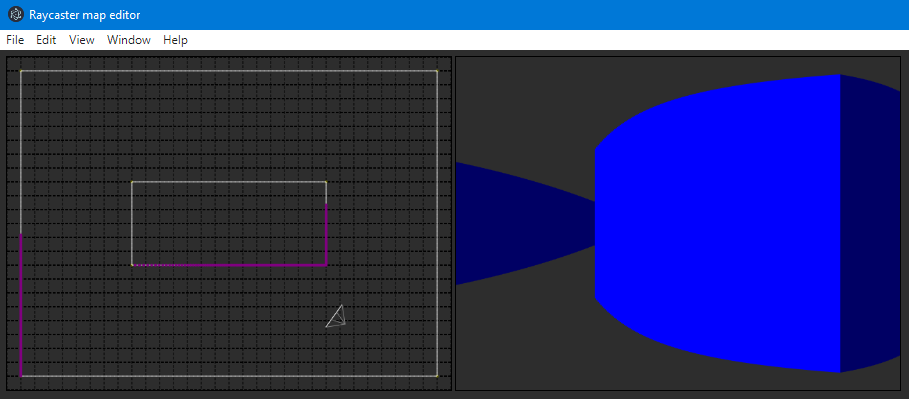
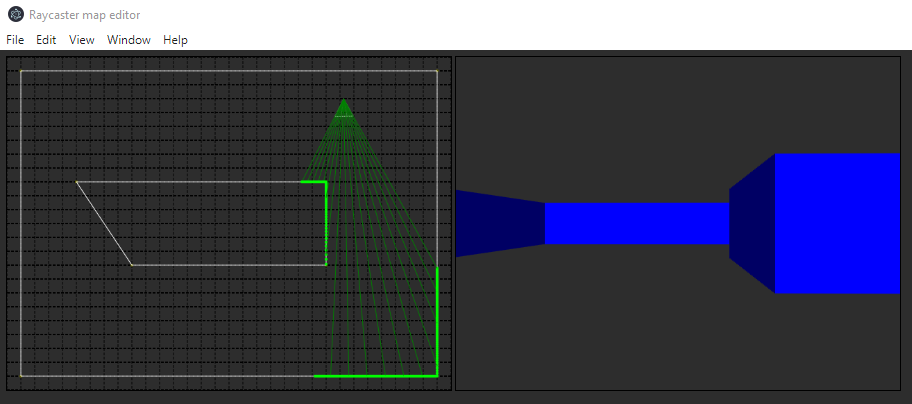
fixed skewed geometry + holes in geometry

diff --git a/src/renderer3d.ts b/src/renderer3d.ts
@@ -1,47 +1,43 @@
 import { ILineSegment, slope } from './lineSegment';
 import * as raycaster from './raycaster';
-import { CastedRay } from './raycaster';
 import { getX, getY, Vector } from './vector';
 import { World } from './world';
 export class Renderer3d {
     private context: CanvasRenderingContext2D;
     constructor(private world: World, private canvas: HTMLCanvasElement, private context2D: CanvasRenderingContext2D) {
-        this.context = canvas.getContext('2d');        
+        this.context = canvas.getContext('2d');
     }
-    private resolution = 320; 
-    private horizonDistance = 500;    
-    private sigmoid = (t) => 1/(1+Math.pow(Math.E, -t));
+    private resolution = 320;
+    private horizonDistance = 250;
     
-    private stuff : any = {};
-    private mapToColumn = (c: raycaster.CastedRay, column: number) => {
+    private mapToColumn = (column: number) => {
         return this.canvas.width - column / this.resolution * this.canvas.width;
-        // const x = c.hit.ray.angle / (this.world.camera.angle*2);
-        // const result = this.sigmoid(x) * this.canvas.width;
-        // if (!this.stuff[column]) {
-        //     this.stuff[column] = {angle: c.hit.ray.angle, x, column, result};
-        //     console.log(this.stuff[column]);
-        // }
-        // return result;
     }
+
+    displayRays = true;
     public render = () => {
-        this.context.clearRect(0, 0, this.canvas.width, this.canvas.height);    
+        this.context.clearRect(0, 0, this.canvas.width, this.canvas.height);
         let castedRays = raycaster.getCastedRays(this.resolution, this.world.camera, this.world.geometry);
-               
+
         if (castedRays) {
             //this.context2D.fillText(castedRays[0].distance.toString(), castedRays[0].intersection[0], castedRays[0].intersection[1])
-        
-            castedRays.forEach((c, column) => {                
+            if (this.displayRays) {
+                console.log(castedRays); this.displayRays = false;
+                console.log(castedRays.map((_, i) => [this.mapToColumn(i), this.mapToColumn(i+1)]));
+            }
+
+            castedRays.forEach((c, column, a) => {
                 let height = this.convertDistanceToWallHeight(c && c.distance || this.horizonDistance);
                 let startRow = (this.canvas.height - height)/2;
-                let endRow = (this.canvas.height + height)/2;           
-                
+                let endRow = (this.canvas.height + height)/2;
+
                 let color = 100;
                 if (c?.hit?.edge) {
                     let m = Math.abs(slope([c.hit.edge.start.vector, c.hit.edge.end.vector]));
                     color = isFinite(m) && m < 1 ? 255 : 100;
-                }                
+                }
 
-                this.drawRect(this.context, [[this.mapToColumn(c, column), startRow], [this.mapToColumn(c, column+1), endRow]], `rgb(0,0,${color})`);
+                this.drawRect(this.context, [[this.mapToColumn(column), startRow], [this.mapToColumn(column+1), endRow]], `rgb(0,0,${color})`);
                 if (c?.hit) {
                     if (c.hit.intersection) {
                         this.drawVector(this.context2D, c.hit.intersection, 'rgb(0,255,0)');
@@ -55,9 +51,8 @@ export class Renderer3d {
         }
     };
 
-    private convertDistanceToWallHeight = (d: number) => {        
-        return d >= this.horizonDistance ? 1            
-            : Math.max(1, (this.canvas.height - (this.canvas.height/this.horizonDistance)*d));
+    private convertDistanceToWallHeight = (d: number) => {
+        return (60/d) * this.canvas.height;
     }
 
     private drawVector = (context: CanvasRenderingContext2D, vector: Vector, color: string = 'red') => {
@@ -71,7 +66,7 @@ export class Renderer3d {
               y1 = getY(segment[0]),
               x2 = getX(segment[1]),
               y2 = getY(segment[1]);
-        context.beginPath();                
+        context.beginPath();
         context.fillStyle = color;
         context.fillRect(x1, y1, x2-x1, y2-y1);
     };

diff --git a/src/lineSegment.ts b/src/lineSegment.ts
@@ -1,7 +1,12 @@
-import { angleBetween, perpDot, subtract, Vector } from './vector';
+
+import { IRay } from './camera';
+import { add, angleBetween, cross, dot, getX, getY, norm, normalize, perpendicular, scale, subtract, Vector } from './vector';
 
 export type ILine = [Vector, Vector]; // or other representations
 export type ILineSegment = [Vector, Vector];
+
+const start = (a: ILineSegment): Vector => a[0];
+const end = (a: ILineSegment): Vector => a[1];
 
 export const slope = (s: ILineSegment): number => {
   const [x1, x2] = [s[0][0], s[1][0]];
@@ -13,22 +18,6 @@ export const lineAngle = (a: ILineSegment, b: ILineSegment): number => {
   return angleBetween(
     subtract(a[1], a[0]),
     subtract(b[1], b[0]));
-}
-const isOn = (v: Vector, s: ILineSegment): boolean => {
-  const e = 10;//Number.EPSILON;
-  const [x1, x2, x] = [s[0][0], s[1][0], v[0]];
-  const [y1, y2, y] = [s[0][1], s[1][1], v[1]];
-  if (Math.abs(x2 - x1) < e) { 
-    return Math.abs(x1 - x) < e 
-    &&  (Math.min(y1, y2) <= y && y <= Math.max(y1, y2));
-  }
-
-  const m = slope(s);
-  const colinear = Math.abs((y-y1) - (m * (x-x1))) < e;
-  const between = (Math.min(x1, x2) <= x && x <= Math.max(x1, x2))
-              && (Math.min(y1, y2) <= y && y <= Math.max(y1, y2))
-
-  return colinear && between;
 }
 const intersectSegments = (a: ILineSegment, b: ILineSegment): Vector => {
     const p0_x = a[0][0];
@@ -55,39 +44,29 @@ const intersectSegments = (a: ILineSegment, b: ILineSegment): Vector => {
     return null;    
 };
 
-export const intersectLineWithSegment = (a: ILine, b: ILineSegment): Vector => {
-    const x1 = a[0][0];
-    const y1 = a[0][1];
-    const x2 = a[1][0];
-    const y2 = a[1][1];
-    const x3 = b[0][0];
-    const y3 = b[0][1];
-    const x4 = b[1][0];
-    const y4 = b[1][1];
+export const lineIntersect = (a: ILine, b: ILine): Vector => {
+  let A1 = a[1][1]-a[0][1], //p1y - p0y,
+      B1 = a[0][0]-a[1][0], //p0x - p1x,
+      C1 = A1 * a[0][0] + B1 * a[0][1], //p0x + B1 * p0y,
+      A2 = b[1][1]-b[0][1], //p3y - p2y,
+      B2 = b[0][0]-b[1][0], //p2x - p3x, 
+      C2 = A2 * b[0][0] + B2 * b[0][1], //A2 * p2x + B2 * p2y,
+      denominator = A1 * B2 - A2 * B1;
 
-    // Check if none of the lines are of length 0
-	if ((x1 === x2 && y1 === y2) || (x3 === x4 && y3 === y4)) {
-		return null;
-	}
+    return [(B2 * C1 - B1 * C2) / denominator, (A1 * C2 - A2 * C1) / denominator];
+};
 
-	const denominator = ((y4 - y3) * (x2 - x1) - (x4 - x3) * (y2 - y1))
-
-  // Lines are parallel
-	if (denominator === 0) {
-		return null;
-	}
-
-	let ua = ((x4 - x3) * (y1 - y3) - (y4 - y3) * (x1 - x3)) / denominator
-	let ub = ((x2 - x1) * (y1 - y3) - (y2 - y1) * (x1 - x3)) / denominator
-
-  // is the intersection along the segments
-	if (ua < 0 || ub < 0) {
-	 	return null;
-	}
-
-  // Return a object with the x and y coordinates of the intersection
-	let x = x1 + ua * (x2 - x1)
-  let y = y1 + ua * (y2 - y1)
-  //return [x, y];
-  return isOn([x,y], b) ? [x,y] : null;
+export const intersectRay = (ray: IRay, s: ILineSegment): Vector => {
+  let a = s[0];
+  let b = s[1];
+  let o = ray.line[0];  
+  let v1 = subtract(o, a);
+  let v2 = subtract(b, a);
+  let rd = normalize(subtract(ray.line[1], o));     
+  let v3 = [-rd[1], rd[0]];
+  let t1 = cross(v2, v1)/dot(v2, v3);
+  let t2 = dot(v1, v3)/dot(v2, v3);
+  
+  if (t1 >=  0 && t2 >= 0 && t2 <= 1) return add(o, scale(t1, rd));
+  return null;
 }

diff --git a/src/vector.test.ts b/src/vector.test.ts
@@ -1,4 +1,4 @@
-import { add, angleBetween, areOrthogonal, dim, distance, dot, getX, getY, norm, proj, rotate, scale, subtract, Vector } from "./vector";
+import { add, angleBetween, areOrthogonal, dim, distance, dot, getX, getY, norm, perpendicular, proj, rotate, scale, subtract, Vector } from "./vector";
 import math = require("mathjs");
 
 describe('vector tests', () => {
@@ -74,17 +74,28 @@ describe('vector tests', () => {
     it('d([0,3],[4,0])', () => test([0,3], [4,0], 5));
   });
   describe('angle calculation', () => {
-    const test = (u: Vector, v: Vector, e: number) => expect(angleBetween(u, v)).toBeCloseTo(e);
-    it('angle([0,1],[1, 0]) = pi/2', () => test([0,1], [1, 0], math.pi/2));
-    it('angle([0,1],[0, 2]) = 0',    () => test([0,1], [0, 2], 0));
-    it('angle([0,1],[0,-1]) = pi',   () => test([0,1], [0,-1], math.pi));
-    it('angle([1,1],[0, 1]) = pi/4', () => test([1,1], [0, 1], math.pi/4));
-    it('angle([1,0],[0,-1]) = pi/2', () => test([1,0], [0,-1], math.pi/2));
+    const test = (u: Vector, v: Vector, e: number) => expect(angleBetween(u, v)).toBeCloseTo(e);    
+    it('angle([0, 1],[1, 0]) = -pi/2', () => test([0,1], [1, 0], -math.pi/2));
+    it('angle([1, 0],[0, 1]) = pi/2',  () => test([1, 0],[0, 1], math.pi/2));
+    it('angle([0, 1],[0, 2]) = 0',    () => test([0,1], [0, 2], 0));    
+    it('angle([1, 0],[-1,0]) = pi',   () => test([1,0], [-1,0], math.pi));
+    it('angle([1, 1],[0, 1]) = pi/4', () => test([1,1], [0, 1], math.pi/4));
+    it('angle([1, 0],[0,-1]) = -pi/2', () => test([1,0], [0,-1], -math.pi/2));
+    it('angle([5.45,1.12],[-3.86, 4.32]) = 120.17`', () => test([5.45,1.12],[-3.86, 4.32], 120.17*Math.PI/180));
   });
   describe('projection tests', () => {
     const test = (u: Vector, v: Vector, e: Vector) => expect(proj(u, v)).toEqual(e);
     it('proj([1,0],[0,1])     = [0,0]',       () => test([1,0],[0,1], [0,0]));
     it('proj([1,-2,3],[2,4,5])= [2/5,4/5,1]', () => test([1,-2,3],[2,4,5], [2/5,4/5,1]));
+  });
+  describe('perpendicular calculation', () => {
+    const test = (u: Vector, e: Vector) => {
+      const n = perpendicular(u);
+      expect(n).toEqual(e);    
+      expect(dot(n, u)).toEqual(0);
+    }
+    it('perpendicular: [0,1] ==> [-1,0]', () => test([0, 1], [-1, 0]));
+    it('perpendicular: [2,2] ==> [-2,2]', () => test([2, 2], [-2, 2]));
   });
 
 });

diff --git a/src/camera.ts b/src/camera.ts
@@ -18,7 +18,7 @@ export const makeCamera = (data: ICameraData): ICamera => ({...data,
 export const adaptAngle = (direction: 0|1|-1, camera: ICamera): ICamera => {
     let newAngle = camera.angle + direction*0.05; // TODO: magic constant
     return makeCamera(({...camera,
-        angle: newAngle <= Math.PI/8 ? Math.PI/8 : (newAngle >= (3/8)* Math.PI ? (3/8)*Math.PI : newAngle)
+        angle: newAngle <= Math.PI/16 ? Math.PI/16 : (newAngle >= (3/8)* Math.PI ? (3/8)*Math.PI : newAngle)
     }));
 };
 export const adaptDepth = (direction: 1|-1, camera: ICamera): ICamera => {
@@ -50,15 +50,28 @@ export const strafe = (ratio: number, camera: ICamera) => {
     });    
 };
 
-export const distanceTo = (v: vector.Vector, camera : ICamera): number => {    
-    const a = camera.screen[0];
-    const c = camera.screen[1];
-    const b = v;
-    const cn = [c[0] - a[0], c[1] - a[1]];
-    const bn = [b[0] - a[0], b[1] - a[1]];
-    const angle = Math.atan2(bn[1], bn[0]) - Math.atan2(cn[1], cn[0]);
-    const abLength = Math.sqrt(bn[0]*bn[0] + bn[1]*bn[1]);
-    return Math.sin(angle)*abLength;
+export const distanceTo = (v: vector.Vector, camera : ICamera): number => {  
+    
+    let d = vector.subtract(camera.screen[1], camera.screen[0]);
+    let length = vector.norm(d);
+    if (length < Number.EPSILON) {
+        return vector.norm(vector.subtract(v, camera.screen[0]));
+    }
+
+    let norm = vector.perpendicular(vector.scale(1/length, d));
+
+    let distance = vector.dot(vector.subtract(v, camera.screen[0]), norm);
+    return Math.abs(distance);
+
+    // // euclidean distance => fisheye
+    // const a = camera.screen[0];
+    // const c = camera.screen[1];
+    // const b = v;
+    // const cn = [c[0] - a[0], c[1] - a[1]];
+    // const bn = [b[0] - a[0], b[1] - a[1]];
+    // const angle = Math.atan2(bn[1], bn[0]) - Math.atan2(cn[1], cn[0]);
+    // const abLength = Math.sqrt(bn[0]*bn[0] + bn[1]*bn[1]);
+    // return Math.sin(angle)*abLength;
 }
 
 export const makeRays = (resolution: number, camera: ICamera): IRay[] => { 

diff --git a/src/vector.ts b/src/vector.ts
@@ -14,17 +14,22 @@ const dot = (u: Vector, v: Vector): number =>
     zip(cs => cs.reduce((acc, c) => acc * c, 1), [u, v])
     .reduce((acc, n) => acc + n, 0);    
 const norm = (u: Vector): number => Math.sqrt(dot(u, u));
+const normalize = (u: Vector): Vector => scale(1/norm(u), u);
 const scale = (k: number, u: Vector): Vector => u.map(x => k * x);
 const subtract = (u: Vector, v: Vector): Vector => zip((cs) => cs.slice(1).reduce((acc, c) => acc - c, cs[0]), [u, v]);
 const add = (u: Vector, v: Vector): Vector => zip((cs) => cs.reduce((acc, c) => acc + c, 0), [u, v]);
 const areOrthogonal = (u: Vector, v: Vector): boolean => dot(u, v) === 0;
 const distance = (u: Vector, v: Vector): number => norm(subtract(u, v));
-const angleBetween = (u: Vector, v: Vector): number => Math.acos(dot(u, v) / (norm(u) * norm(v)));
+const angleBetween = (u: Vector, v: Vector): number => Math.atan2(cross(u, v), dot(u, v)); //Math.acos(dot(u, v) / (norm(u) * norm(v)));
 const proj = (u: Vector, v: Vector): Vector => scale(dot(u, v) / dot(v, v), v);
 const rotate = (angle: number, u: Vector): Vector => [...math.multiply(createRotation(angle), u) as any as number[]]
-const perpDot = (u: Vector, v: Vector) : number => u[0] * v[1] - u[1] * v[0];
+const cross = (u: Vector, v: Vector): number => {
+    if (2 == dim(u) && dim(u) == dim(v)) { return getX(u) * getY(v) - getY(u) * getX(v); }
+    throw new Error('not yet implemented');
+}
+const perpendicular = (u: Vector): Vector => [-getY(u), getX(u)];
 
-export {getX, getY, dot, dim, norm, scale, subtract, add, areOrthogonal, distance, angleBetween, proj, rotate, perpDot};
+export {getX, getY, dot, dim, norm, normalize, scale, subtract, add, areOrthogonal, distance, angleBetween, proj, rotate, cross, perpendicular};
 
 const createRotation = (angle: number) => [
     [Math.cos(angle), -1 * Math.sin(angle)],

diff --git a/src/lineSegment.test.ts b/src/lineSegment.test.ts
@@ -1,0 +1,36 @@
+import { intersectRay, ILineSegment } from './lineSegment';
+import { IRay } from "./camera";
+import { Vector } from './vector';
+
+describe('line segment tests', () => {
+    describe('ray intersection tests', () => {  
+        let ray: IRay;
+        const test = (s: ILineSegment, expected: Vector)=> {
+            let actual = intersectRay(ray, s);            
+            expect(actual).toEqual(expected);
+        };
+
+        describe('horizontal up ray', () => {
+            beforeEach(() => {
+                ray = {line: [[3,2],[3,5]], angle: 0};            
+            });
+            it('test1', () => test([[1,6],[5,6]], [3,6]));
+            it('test2', () => test([[3,3],[5,6]], [3,3]));
+            it('test3', () => test([[2,4],[4,6]], [3,5]));
+            it('test4', () => test([[4,4],[8,5]], null));
+            it('test5', () => test([[-3,3],[1,4]], null));
+            it('test5', () => test([[1,1],[5,1]], null));
+        });      
+        describe('horizontal down ray', () => {
+            beforeEach(() => {
+                ray = {line: [[3,5],[3,2]], angle: 0};            
+            });
+            it('test1', () => test([[1,6],[5,6]], null));
+            it('test2', () => test([[1,1],[5,1]], [3,1]));
+            // it('test3', () => test([[2,4],[4,6]], [3,5]));
+            // it('test4', () => test([[4,4],[8,5]], null));
+            // it('test5', () => test([[-3,3],[1,4]], null));
+        });      
+        
+    });
+});

diff --git a/src/actionHandler.ts b/src/actionHandler.ts
@@ -10,12 +10,12 @@ export class ActionHandler {
     constructor(private actions: ActiveActions, private world: World) {}
 
     handle() {
-        if (this.actions.turnleft) this.world.camera = rotate(-0.1, this.world.camera);
-        if (this.actions.turnright) this.world.camera = rotate(0.1, this.world.camera);
-        if (this.actions.left) this.world.camera = strafe(-0.1, this.world.camera);
-        if (this.actions.right) this.world.camera = strafe(0.1, this.world.camera);
-        if (this.actions.up) this.world.camera  = move(0.1, this.world.camera);
-        if (this.actions.down) this.world.camera = move(-0.1, this.world.camera);
+        if (this.actions.turnleft) this.world.camera = rotate(-0.05, this.world.camera);
+        if (this.actions.turnright) this.world.camera = rotate(0.05, this.world.camera);
+        if (this.actions.left) this.world.camera = strafe(-0.05, this.world.camera);
+        if (this.actions.right) this.world.camera = strafe(0.05, this.world.camera);
+        if (this.actions.up) this.world.camera  = move(0.05, this.world.camera);
+        if (this.actions.down) this.world.camera = move(-0.05, this.world.camera);
 
         if (this.actions.camera_angle_up)   this.world.camera = adaptAngle( 1, this.world.camera);
         if (this.actions.camera_angle_down) this.world.camera = adaptAngle(-1, this.world.camera);

diff --git a/src/geometry.ts b/src/geometry.ts
@@ -1,6 +1,6 @@
 
 import { IRay } from './camera';
-import { ILine, intersectLineWithSegment } from './lineSegment';
+import { intersectRay } from './lineSegment';
 import { Vector } from './vector';
 import { IGeometry, IVertex, distance, IPolygon, loadPolygon, createPolygon, IStoredGeometry, IEdge } from './vertex';
 
@@ -30,7 +30,9 @@ export const detectVertexAt = (vector: Vector, geometry: IGeometry): VertexColli
 export const detectCollisions = (ray: IRay, geometry: IGeometry): RayHit[] => {
     return geometry.polygons
         .map(p => [...p.edges
-            .map(e => ({ray, edge: e, intersection: intersectLineWithSegment(ray.line, [e.start.vector, e.end.vector])}))
+            .map(e => ({ray, edge: e, 
+                intersection: intersectRay(ray, [e.start.vector, e.end.vector]),                
+            }))
             .filter(_ => !!_.intersection)
             .map(_ => ({..._, polygon: p}))])
         .reduce((acc, i) => [...acc, ...i], []);

diff --git a/src/raycaster.ts b/src/raycaster.ts
@@ -9,7 +9,7 @@ export const getCastedRays = (resolution: number, camera: ICamera, geometry: IGe
     const rays = makeRays(resolution, camera);
     const calculateDistance = (hit: RayHit) =>
     {   
-        return vector.distance(hit.intersection, hit.ray.line[1]) * Math.cos(hit.ray.angle);
+        return vector.distance(hit.intersection, camera.location) * Math.cos(hit.ray.angle);
     };
     return rays
         .map(_ => detectCollisions(_, geometry)

diff --git a/src/renderer.ts b/src/renderer.ts
@@ -28,7 +28,7 @@ let world: World = {
     camera: makeCamera({location: [50,50], target: [70,70]}),
     geometry: createGeometry([
         [[20,20],[20,460],[620,460],[620,20]],    
-        [[180,180],[180,300],[460,300],[460,180]]
+        [[100,180],[180,300],[460,300],[460,180]]
     ]),
     selection: []
 };
